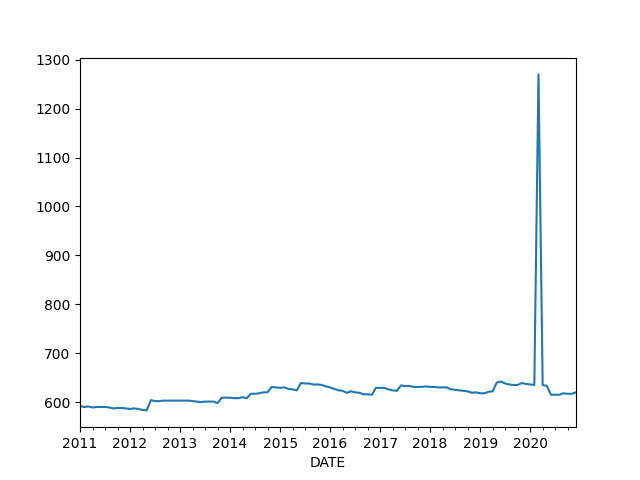
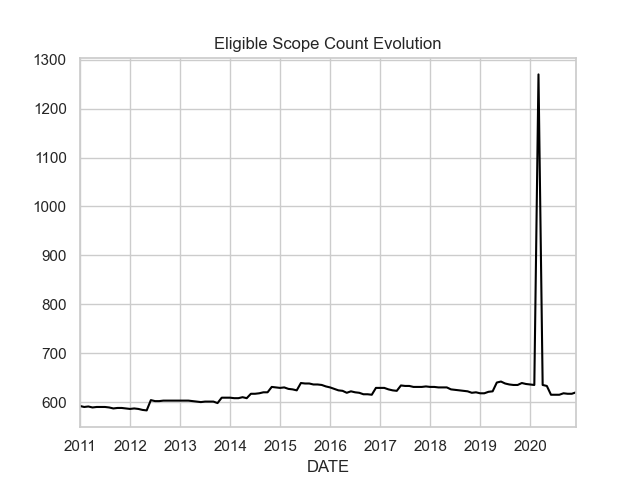
q2

diff --git a/q1.py b/q1.py
@@ -7,7 +7,9 @@ from hmmlearn.hmm import GaussianHMM
 from minisom import MiniSom
 from sklearn.preprocessing import RobustScaler
 
-
+import seaborn as sns
+sns.set_theme(style='whitegrid')
+sns.set_palette('deep', desat=.7)
 # !pip install scikit-learn minisom matplotlib numpy pandas os
 
 # Use closing price from price.csv to construct returns for each ID in the asset list. Plot the average daily
@@ -87,15 +89,15 @@ scope = scope.set_index('DATE')
 print(f'{scope=}')
 
 # II DATA EXPLORATION
-scope['PXID'].apply(lambda x: len(x)).plot()
+scope['PXID'].apply(lambda x: len(x)).plot(color='black', title='Eligible Scope Count Evolution')
 plt.savefig('plots/scope_initial.png')
 plt.close()
 
 # noticed the scope widens drastically on covid outbreak month March 2020 and then reverts to Feb range in April;
 # not sure if genuine or not, I will take the discretion here to set March scope to be Feb union April;
-# there is limited value in overhauling the portfolio one month and having to revert it the next
+# there is likely limited value in overhauling the portfolio one month and having to revert it the next
 scope.loc['2020-03-31']['PXID'] = list(set(scope.loc['2020-02-28'].values[0] + scope.loc['2020-04-30'].values[0]))
-scope['PXID'].apply(lambda x: len(x)).plot()
+scope['PXID'].apply(lambda x: len(x)).plot(color='black', title='Eligible Scope Count Evolution')
 plt.savefig('plots/scope_modified.png')
 plt.close()
 pd.to_pickle(scope, 'hot/scope.pickle')
@@ -191,12 +193,12 @@ def plot_regimes(prices, states):
     aligned_index = prices.index[-len(states):]  # Align index with states
     fig, ax1 = plt.subplots(figsize=(12, 6))
 
-    ax1.plot(aligned_index, avg_prices[-len(states):], label='Equal-Weighted Index', color='blue')
-    ax1.set_ylabel('Index Value', color='blue')
-    ax1.tick_params(axis='y', labelcolor='blue')
+    ax1.plot(aligned_index, avg_prices[-len(states):], label='Equal-Weighted Index', color='black')
+    ax1.set_ylabel('Index Value')
+    ax1.tick_params(axis='y')
 
     ax2 = ax1.twinx()
-    ax2.plot(aligned_index, states, label='Regimes (0=Low Vol, 1=High Vol)', color='red', alpha=0.6)
+    ax2.plot(aligned_index, states, label='Regimes (0=Low Vol, 1=High Vol)', color='red', alpha=0.7)
     ax2.set_ylabel('Regime', color='red')
     ax2.tick_params(axis='y', labelcolor='red')
 

diff --git a/q2.py b/q2.py
@@ -66,12 +66,34 @@ def get_signal_avg_returns(
     avg_returns_df = pd.concat(avg_returns_list, axis=1).mean(axis=1)
     return avg_returns_df
 
-signal_performance_analysis:dict = dict()
 
+# varying time horizons
+horizons_results: dict = dict()
 for horizon_days in (range(5, 20, 5)):
     print(horizon_days)
     avg_returns_df = get_signal_avg_returns(prices, compute_rsi, horizon_days=horizon_days)
-    print(avg_returns_df)
+    horizons_results[horizon_days] = avg_returns_df
+
+aggregated_results = pd.concat(horizons_results, axis=1)
+aggregated_results.columns = [f'Horizon {horizon} days' for horizon in horizons_results.keys()]
+plt.figure(figsize=(12, 6))
+for column in aggregated_results.columns:
+    plt.plot(aggregated_results.index, aggregated_results[column], label=column)
+plt.title("Average Returns Across Horizons")
+plt.xlabel("Index")
+plt.ylabel("Average Returns")
+plt.legend(title="Horizons")
+plt.grid(alpha=0.3)
+plt.tight_layout()
+plt.show()
+
+# by regime with horizon 3 months todo
+regimes_results: dict = dict()
+
+
+# by cluster with horizon 3 months todo
+clusterss_results: dict = dict()
+
 
 # Plot the results (raw and beta-adjusted)
 fig, axes = plt.subplots(1, 2, figsize=(14, 6))
